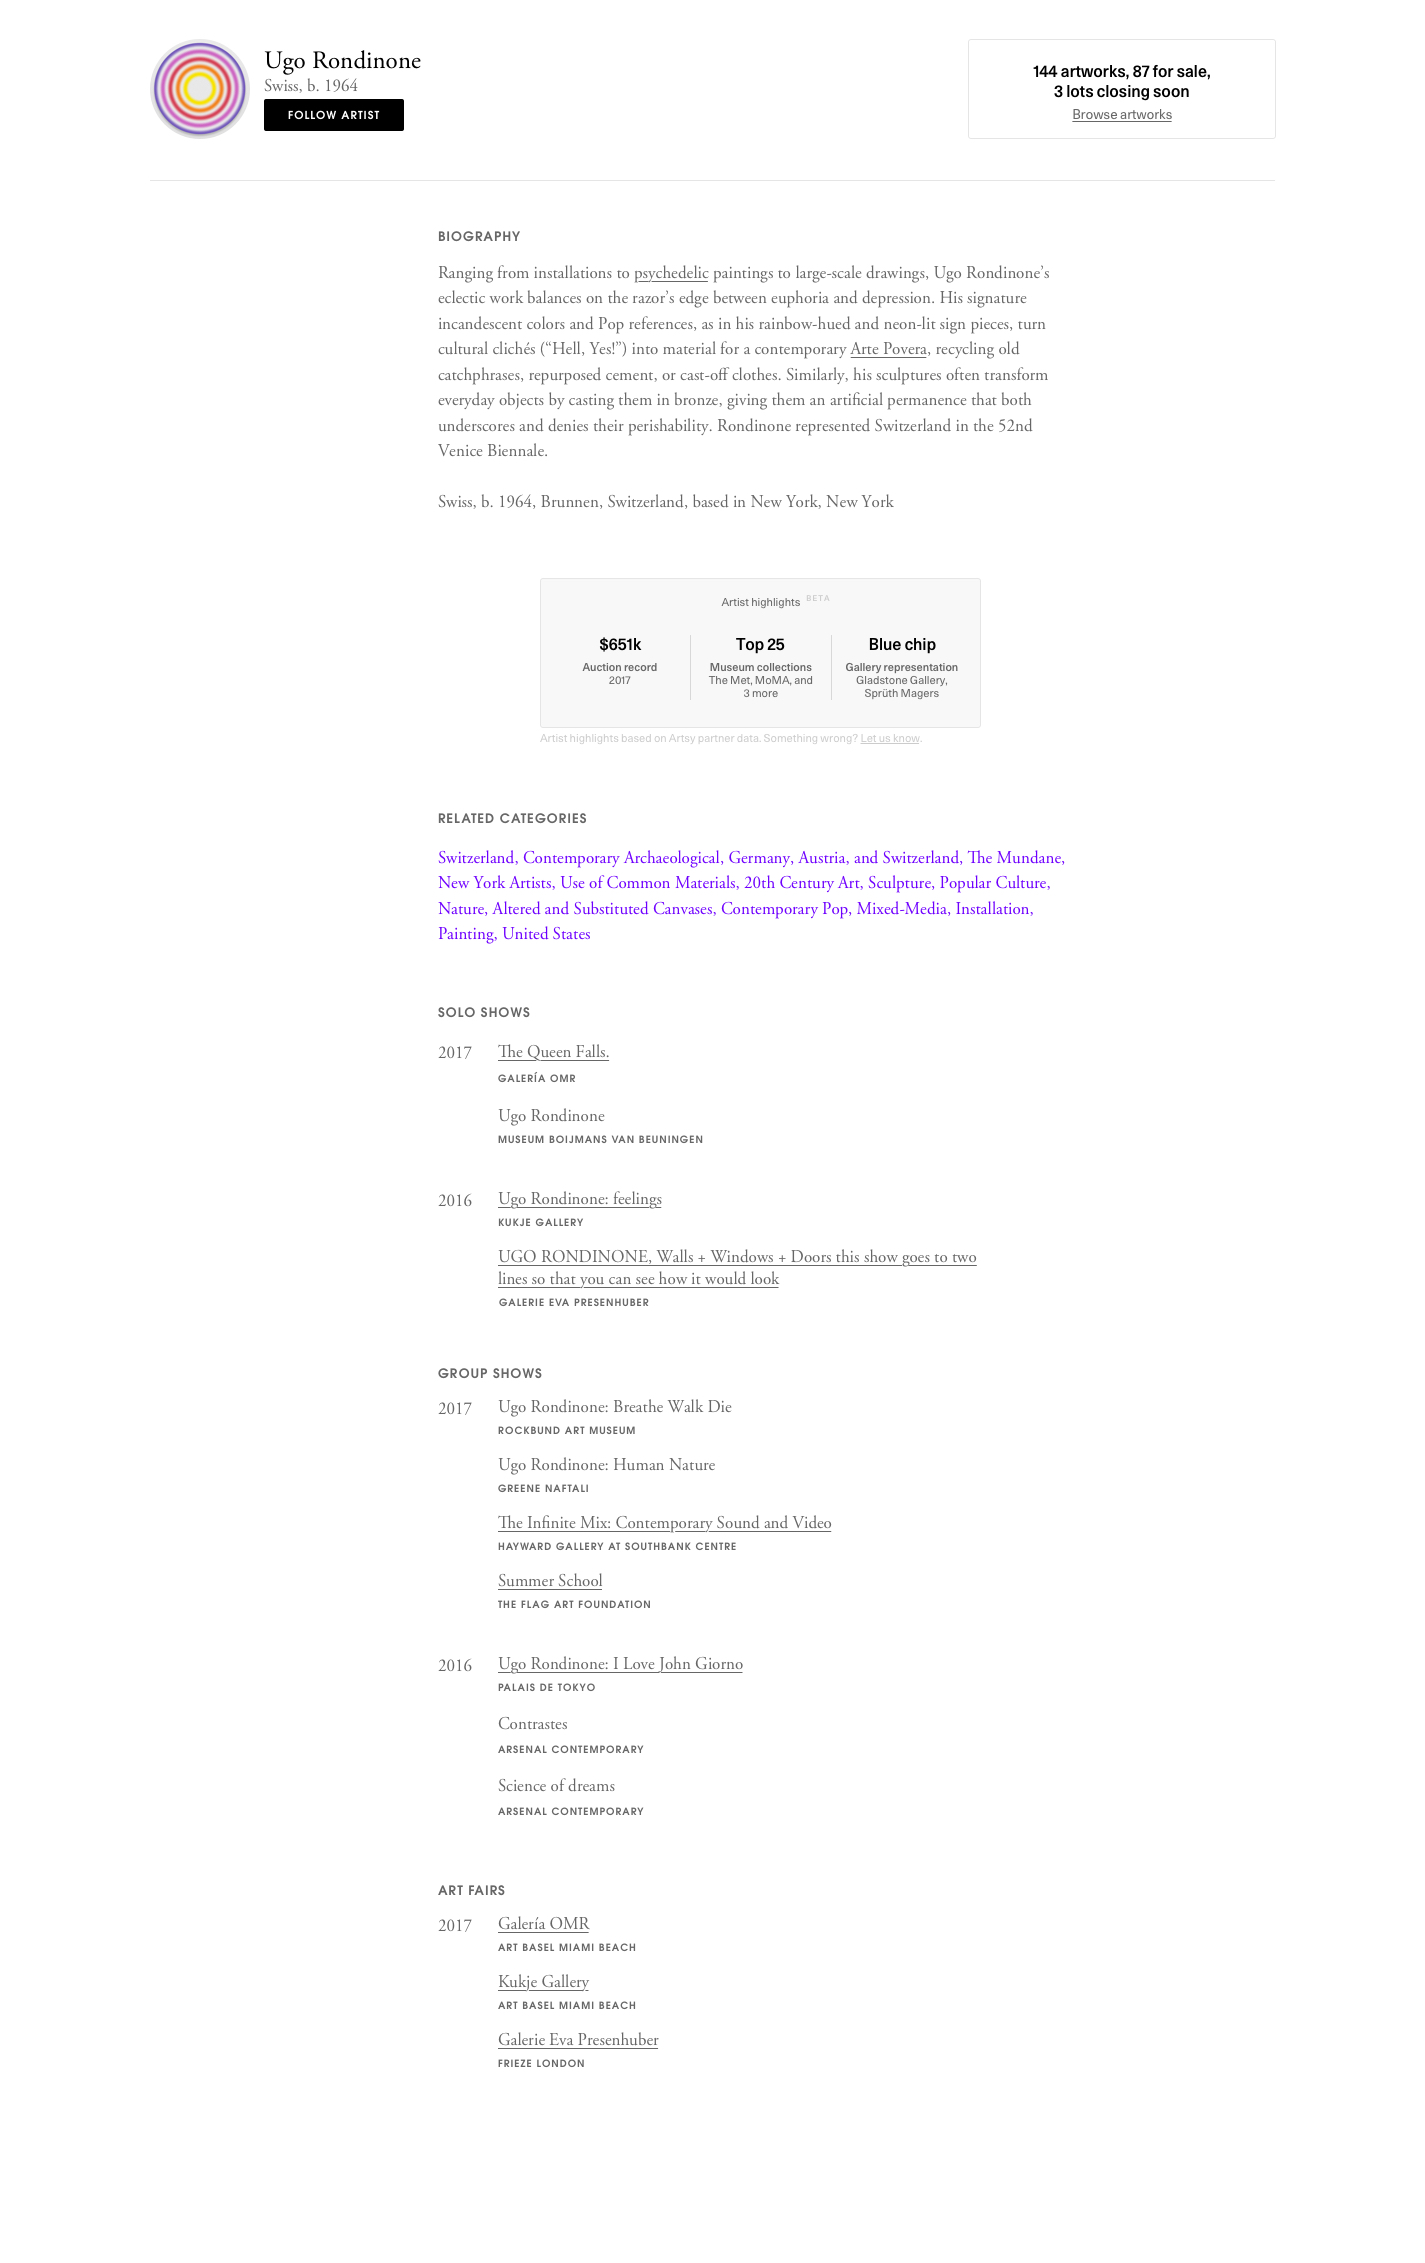
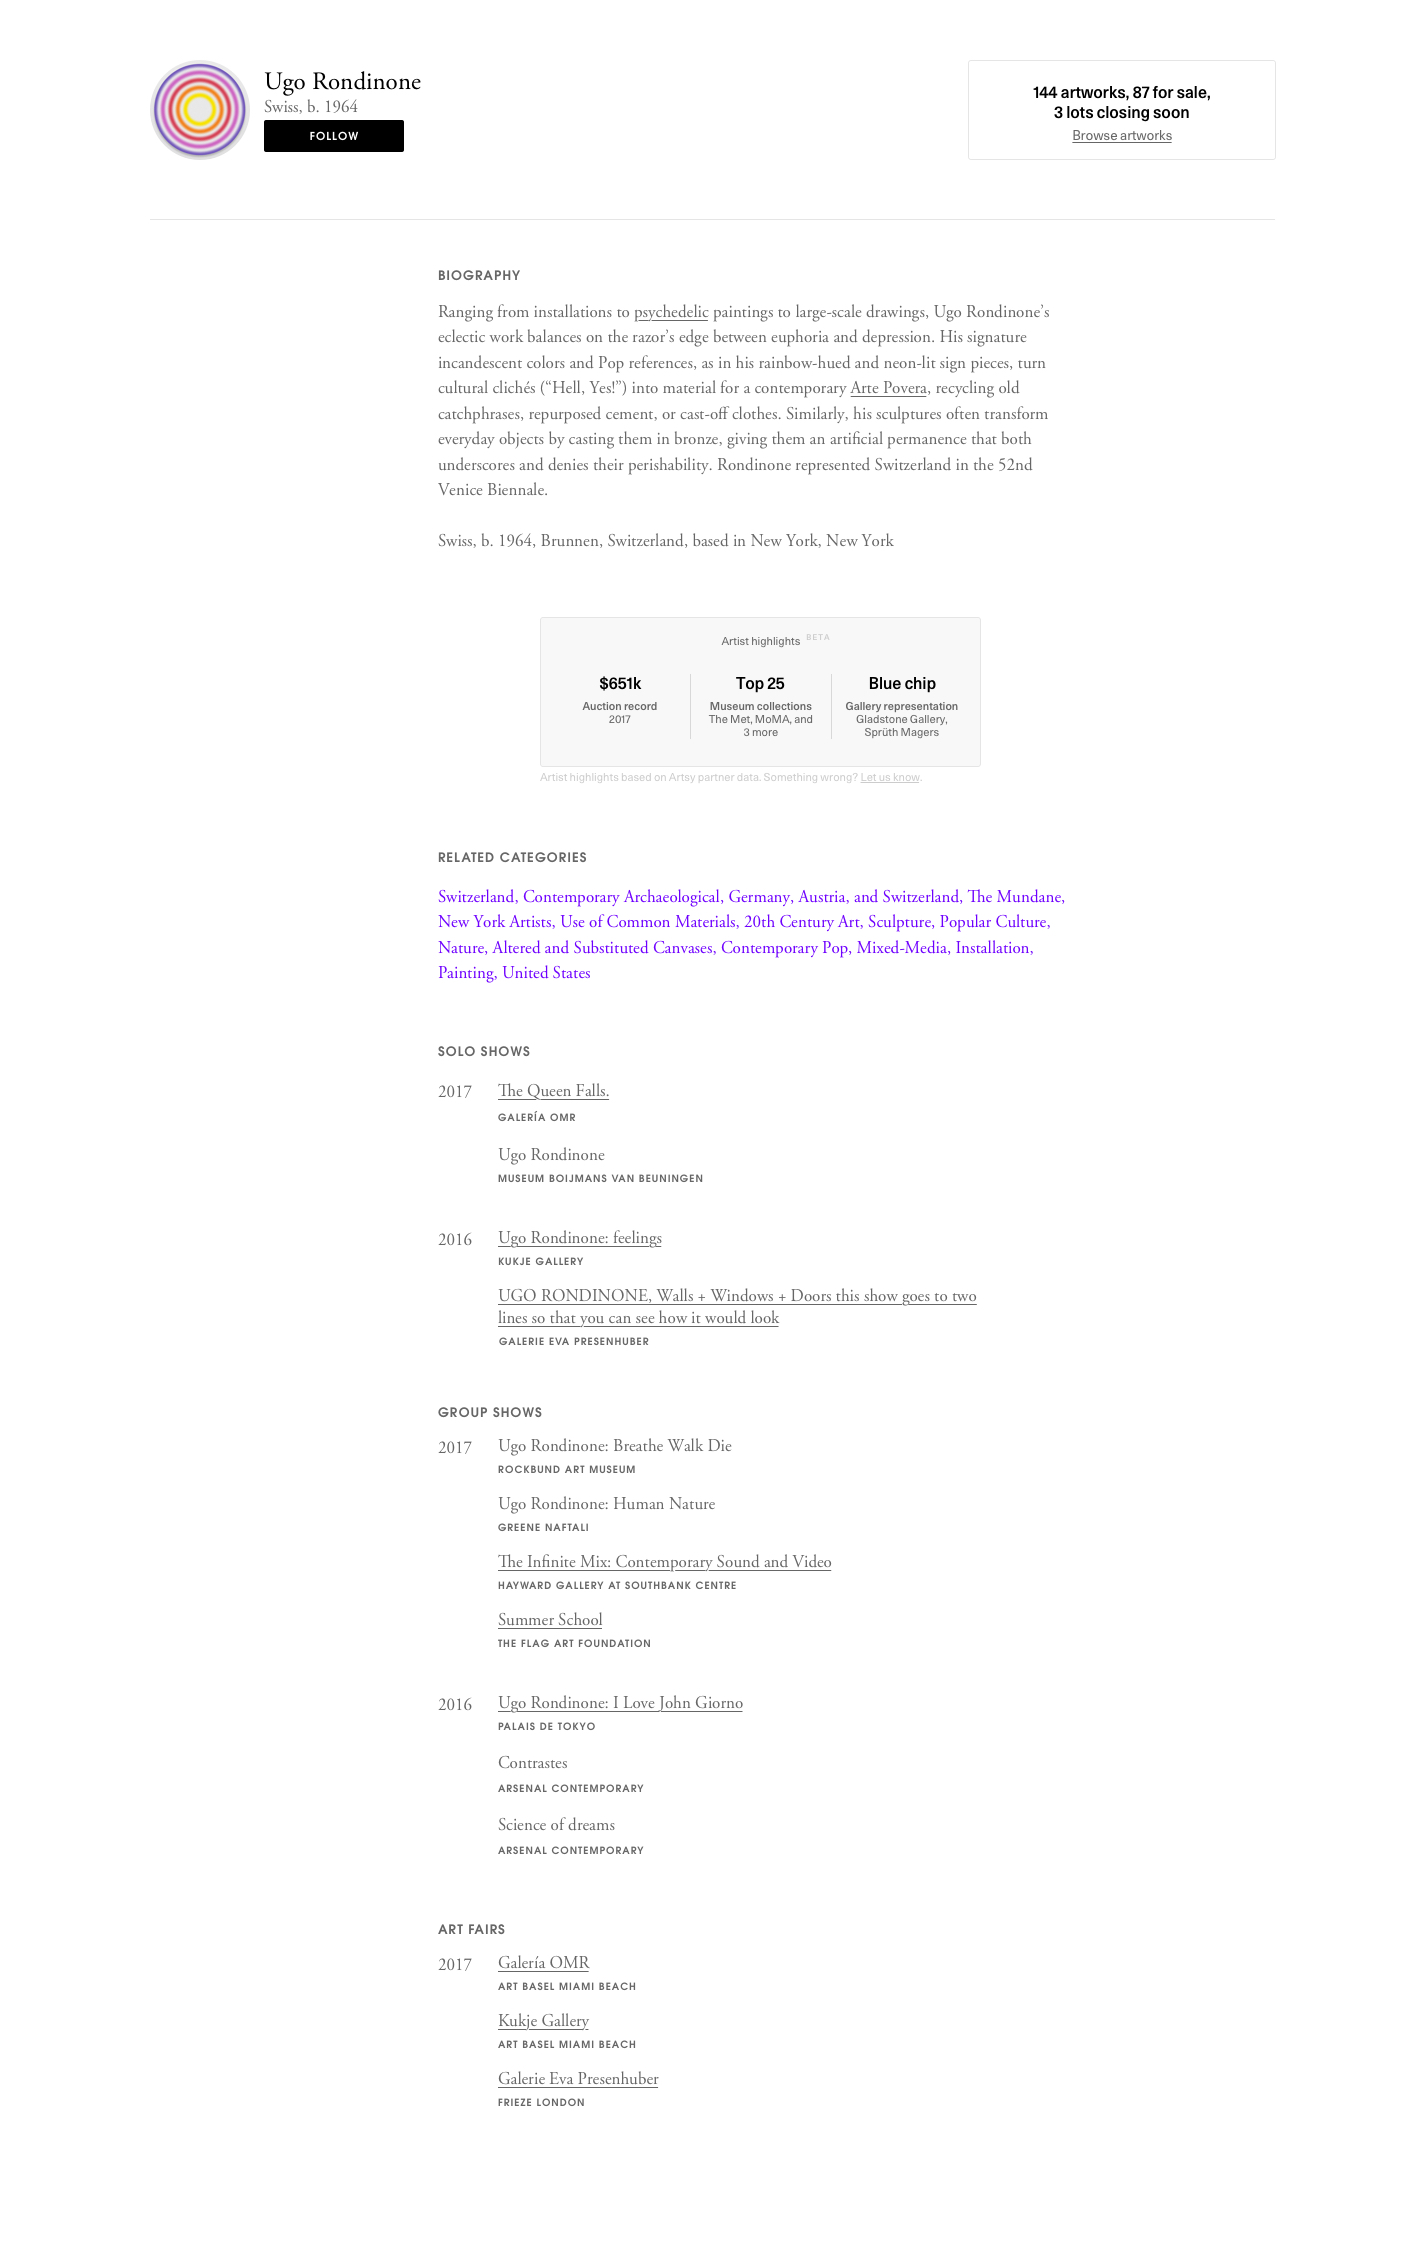
add spacing

diff --git a/artsy/artist/assets/css/styles.css b/artsy/artist/assets/css/styles.css
@@ -122,7 +122,7 @@ li {
 }
 
 .header-button.about {
-  top: 40px;
+  top: 60px;
   width: 307px;
   height: 99px;
 }
@@ -142,7 +142,7 @@ li {
 .content.articles { background-image: url(../img/articles.jpg); height: 2350px; background-position: center top; margin-top: 70px; }
 .content.related-artists { background-image: url(../img/related-artists.jpg); height: 2350px; background-position: center top; margin-top: 70px; }
 
-.spacer { height: 229px; }
+.spacer { height: 268px; }
 
 .sidebar-wrapper {
   margin: 0 auto;
